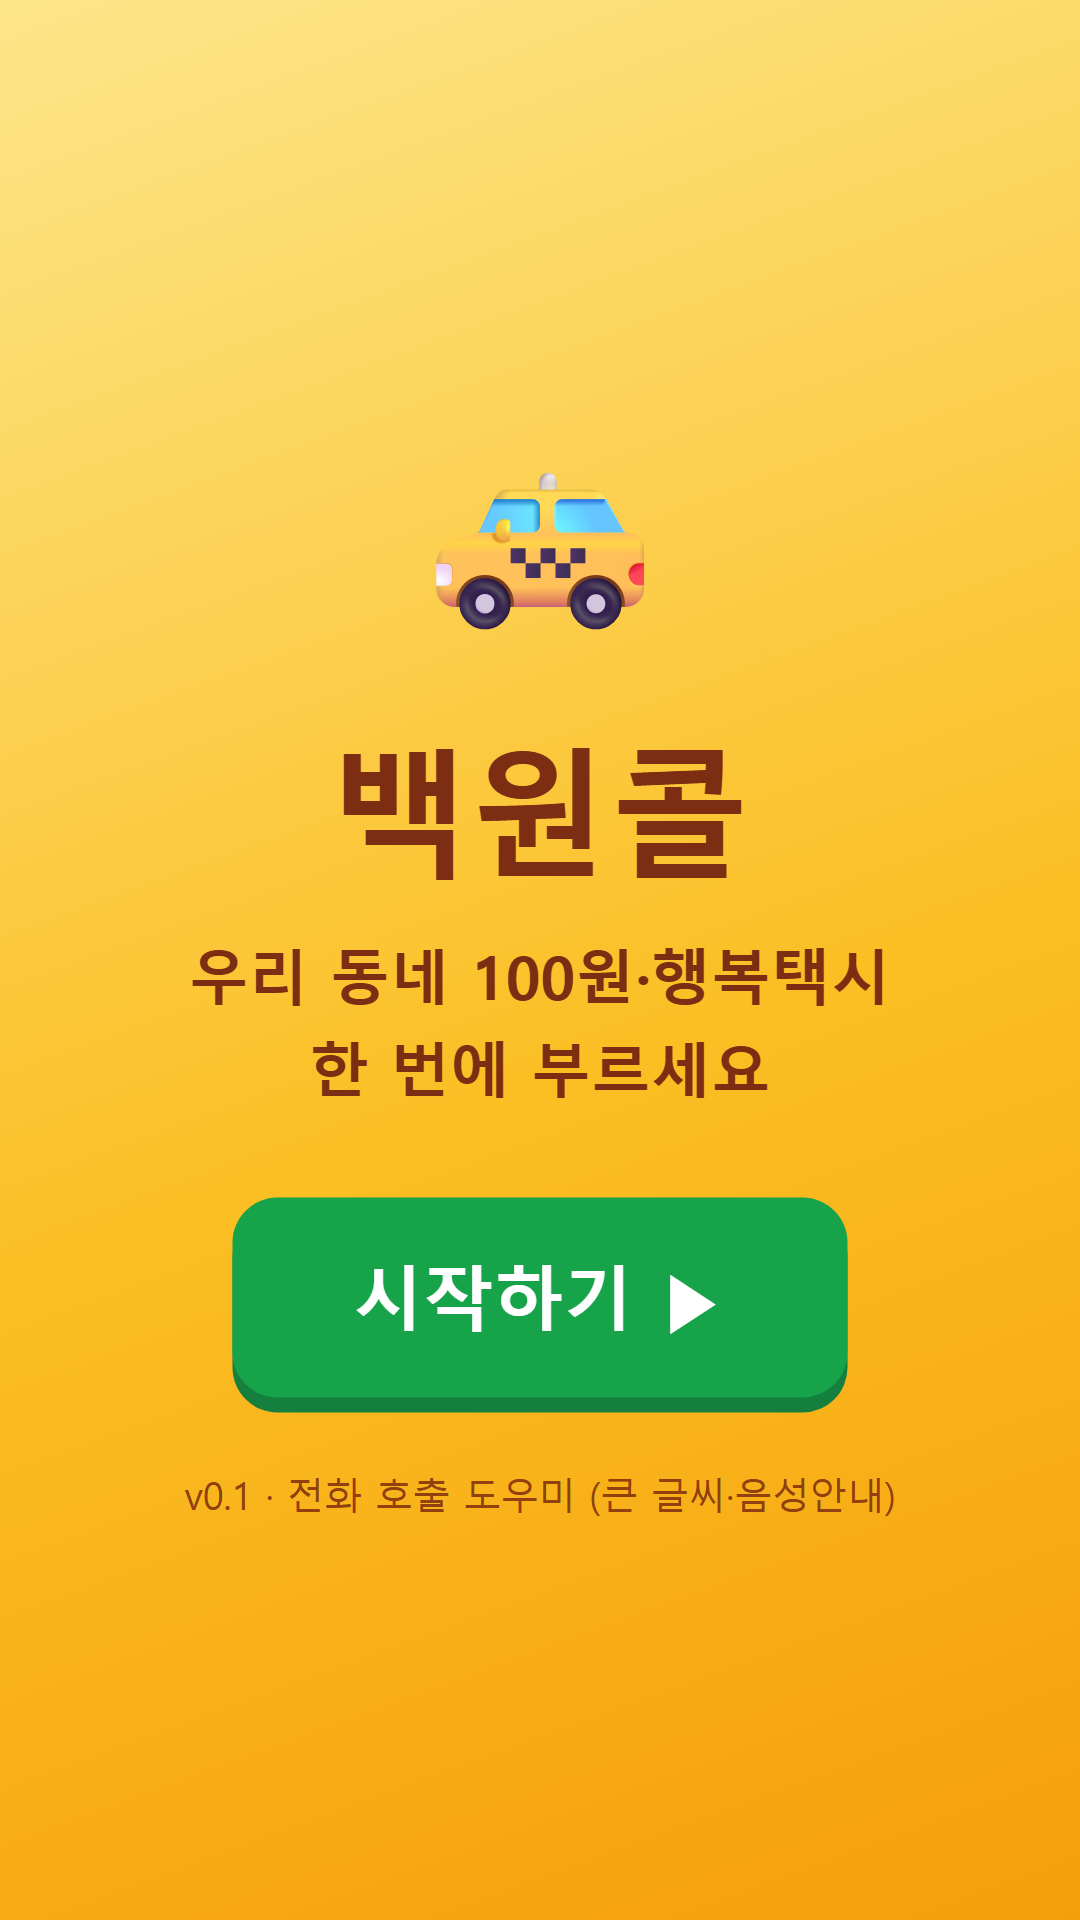
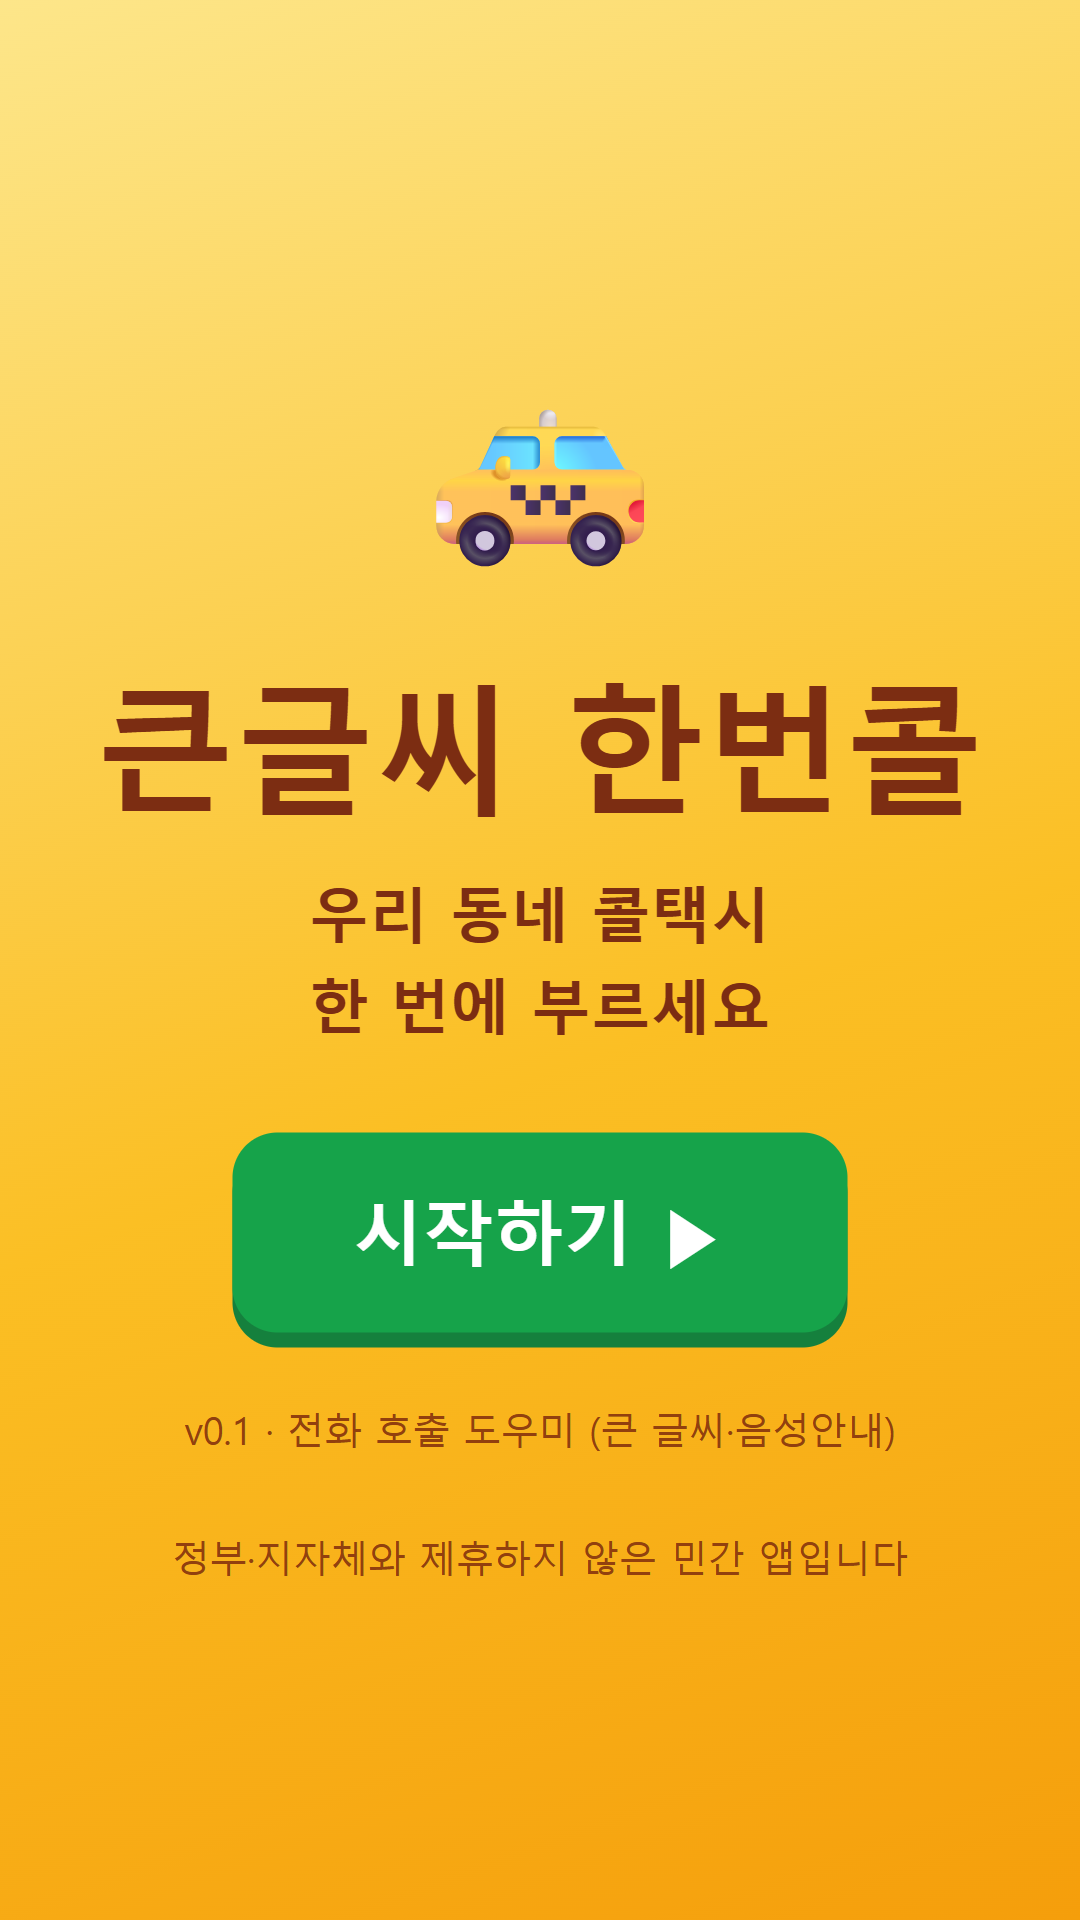
앱 이름 변경: 어르신 택시콜 → 큰글씨 한번콜 (Play 명의도용 3차 거부 대응)
- 아이콘·피처그래픽에서 '100' 동전(100원택시 연상) 제거, 개인 제작 표기
- '정부 안내전화' 카드명을 '번호 문의처'로, 예시 문구의 행복택시 제거
- 스토어 스크린샷 재촬영(옛 '백원콜·100원·행복택시' 문구 제거)
- sw v2.7

Changed region(s): [[0.0917, 0.2188, 0.825, 0.8125], [0.7944, 0.3438, 0.9167, 0.4375]]

diff --git a/www/index.html b/www/index.html
@@ -8,11 +8,11 @@
   <meta name="apple-mobile-web-app-capable" content="yes" />
   <meta name="mobile-web-app-capable" content="yes" />
   <meta name="apple-mobile-web-app-status-bar-style" content="black-translucent" />
-  <meta name="apple-mobile-web-app-title" content="어르신 택시콜" />
+  <meta name="apple-mobile-web-app-title" content="큰글씨 한번콜" />
   <meta name="referrer" content="no-referrer" />
   <!-- CSP: 동일 출처만 허용. 외부 fetch·script·iframe 차단. tel:/sms: 전화·문자 호출은 허용. -->
   <meta http-equiv="Content-Security-Policy" content="default-src 'self'; script-src 'self'; style-src 'self' 'unsafe-inline'; img-src 'self' data:; font-src 'self' data:; connect-src 'self' https://siqlhoimzvklzzhrqayq.supabase.co wss://siqlhoimzvklzzhrqayq.supabase.co; frame-ancestors 'none'; base-uri 'self'; form-action 'none';" />
-  <title>어르신 택시콜 — 큰 글씨 호출 도우미</title>
+  <title>큰글씨 한번콜 — 개인 제작 호출 도우미</title>
   <link rel="manifest" href="manifest.webmanifest" />
   <link rel="icon" type="image/png" sizes="192x192" href="icon_192.png?v=1" />
   <link rel="icon" type="image/png" sizes="512x512" href="icon_512.png?v=1" />
@@ -24,7 +24,7 @@
   <div id="intro" class="intro">
     <div class="intro-content">
       <div class="intro-emoji">🚕</div>
-      <h1 class="intro-title">어르신 택시콜</h1>
+      <h1 class="intro-title">큰글씨 한번콜</h1>
       <p class="intro-slogan">우리 동네 콜택시<br>한 번에 부르세요</p>
       <button id="btn_start" class="btn-start">시작하기 ▶</button>
       <p class="intro-foot">v0.1 · 전화 호출 도우미 (큰 글씨·음성안내)</p>
@@ -34,7 +34,7 @@
 
   <header class="app-header">
     <div class="app-header-text">
-      <h1>🚕 어르신 택시콜</h1>
+      <h1>🚕 큰글씨 한번콜</h1>
       <div class="sub">큰 글씨·음성안내 택시 호출 도우미</div>
     </div>
     <button id="btn_voice" class="header-voice" type="button" aria-pressed="true" aria-label="음성 안내 켜기 끄기">🔊 음성</button>
@@ -94,7 +94,7 @@
           <button id="btn_ride_share" class="btn-ride-share" type="button">📨 보호자에게 보기 링크 보내기</button>
           <button id="btn_ride_stop" class="btn-ride-stop" type="button">■ 공유 끄기 (내렸어요)</button>
         </div>
-        <p class="ride-note">문자를 보낸 뒤 이 화면(어르신 택시콜)으로 돌아와 켜 두세요. 다른 앱으로 가거나 화면이 꺼지면 위치 전송이 잠시 멈출 수 있어요.</p>
+        <p class="ride-note">문자를 보낸 뒤 이 화면(큰글씨 한번콜)으로 돌아와 켜 두세요. 다른 앱으로 가거나 화면이 꺼지면 위치 전송이 잠시 멈출 수 있어요.</p>
       </div>
     </section>
 
@@ -113,7 +113,7 @@
       <label class="field"><span>③ 택시 콜센터 전화번호</span>
         <input type="tel" id="taxi_number" inputmode="tel" placeholder="예) 0312345678 (- 없이)" maxlength="20" /></label>
       <label class="field"><span>택시 이름 (선택)</span>
-        <input type="text" id="taxi_label" maxlength="20" placeholder="예) 우리면 행복택시" /></label>
+        <input type="text" id="taxi_label" maxlength="20" placeholder="예) 우리 동네 콜택시" /></label>
       <button id="btn_save_taxi" class="btn-save" type="button">💾 택시 번호 저장</button>
       <div class="saved-line" id="saved_taxi" hidden></div>
     </section>
@@ -143,8 +143,8 @@
 
     <!-- ⑥ 정부 안내번호 -->
     <section class="card">
-      <h2 class="card-title">☎ 정부 안내전화</h2>
-      <p class="card-help">택시 번호를 모를 때, 아래로 전화해 우리 지역 행복택시 안내를 받으세요.</p>
+      <h2 class="card-title">☎ 번호 문의처</h2>
+      <p class="card-help">택시 번호를 모를 때 아래 공공 민원전화로 우리 지역 콜택시 번호를 문의하세요. (본 앱과 관련 없는 일반 민원 번호입니다)</p>
       <a class="infoline" href="tel:120"><b>120</b> 우리 시·군청 민원 안내 <span>(지역번호+120)</span></a>
       <a class="infoline" href="tel:110"><b>110</b> 정부민원 통합 안내</a>
     </section>

diff --git a/www/app.js b/www/app.js
@@ -1,4 +1,4 @@
-/* 어르신 택시콜 — 큰 글씨 호출 도우미
+/* 큰글씨 한번콜 — 개인 제작 호출 도우미
    - 100% 기기 내부 동작. 외부 서버 전송 없음. 저장은 localStorage.
    - 전화: tel: / 문자: sms: / 위치: navigator.geolocation
    - 음성 안내: Web Speech API (speechSynthesis, ko-KR)
@@ -113,7 +113,7 @@
   $("btn_start").addEventListener("click", function () {
     $("intro").classList.add("hide");
     setTimeout(function () { $("intro").style.display = "none"; }, 400);
-    speak("어르신 택시콜입니다. 택시 부르기 버튼을 누르세요.");
+    speak("큰글씨 한번콜입니다. 택시 부르기 버튼을 누르세요.");
   });
 
   /* ── 음성 토글 ── */
@@ -536,7 +536,7 @@
     if (!GEO.last) { toast("위치를 아직 못 찾았어요. 잠시만요."); return; }
     var tnum = get(LS.taxiNum);
     if (!tnum) { toast("먼저 택시 번호를 저장하세요."); closeLocOverlay(); scrollToSave("setup", "taxi_number"); return; }
-    var body = "[어르신 택시콜] 손님 현재 위치입니다.\n지도: " + geoMapLink();
+    var body = "[큰글씨 한번콜] 손님 현재 위치입니다.\n지도: " + geoMapLink();
     toast("택시에 보낼 문자가 열렸어요. ‘보내기’만 누르세요.");
     sendSms(tnum, body);
   });
@@ -680,7 +680,7 @@
   function rideShareLink() {
     if (!RIDE.token) return;
     var url = BWRT.trackUrl(RIDE.token);
-    var msg = "[어르신 택시콜] 지금 택시로 이동 중입니다.\n아래 링크에서 제 위치를 실시간으로 보실 수 있어요.\n" + url;
+    var msg = "[큰글씨 한번콜] 지금 택시로 이동 중입니다.\n아래 링크에서 제 위치를 실시간으로 보실 수 있어요.\n" + url;
     // 보호자 번호가 저장돼 있으면 곧바로 문자앱을 열어 한 번에 보냅니다(공유 시트 생략).
     var gnum = get(LS.gNum);
     if (gnum) {
@@ -689,7 +689,7 @@
       return;
     }
     if (navigator.share) {
-      navigator.share({ title: "어르신 택시콜 실시간 위치", text: msg, url: url }).catch(function () {});
+      navigator.share({ title: "큰글씨 한번콜 실시간 위치", text: msg, url: url }).catch(function () {});
       return;
     }
     try {

diff --git a/www/privacy_policy.html b/www/privacy_policy.html
@@ -3,7 +3,7 @@
 <head>
   <meta charset="UTF-8" />
   <meta name="viewport" content="width=device-width, initial-scale=1" />
-  <title>어르신 택시콜 — 개인정보처리방침</title>
+  <title>큰글씨 한번콜 — 개인정보처리방침</title>
   <style>
     body { font-family: -apple-system, "Malgun Gothic", "맑은 고딕", sans-serif;
            max-width: 760px; margin: 0 auto; padding: 24px; line-height: 1.7;
@@ -20,11 +20,11 @@
   </style>
 </head>
 <body>
-  <h1>🚕 어르신 택시콜 — 개인정보처리방침</h1>
+  <h1>🚕 큰글씨 한번콜 — 개인정보처리방침</h1>
   <p class="meta"><b>시행일자</b>: 2026년 6월 1일 &nbsp;·&nbsp; <b>최종 개정</b>: 2026년 6월 4일</p>
 
   <h2>1. 개인정보의 수집 및 이용</h2>
-  <p>어르신 택시콜(이하 "본 앱")은 <b>사용자의 개인정보를 외부 서버로 수집·전송·저장하지 않습니다.</b></p>
+  <p>큰글씨 한번콜(이하 "본 앱")은 <b>사용자의 개인정보를 외부 서버로 수집·전송·저장하지 않습니다.</b></p>
   <p>본 앱에서 사용자가 입력·저장하는 모든 정보(택시 콜센터 번호, 보호자 이름·전화번호, 자주 가는 곳, 지역 선택)는:</p>
   <ul>
     <li>사용자 본인의 기기 내부 저장소(localStorage)에만 저장됩니다.</li>

diff --git a/www/track.js b/www/track.js
@@ -1,4 +1,4 @@
-/* 어르신 택시콜 — 보호자 실시간 추적 페이지 로직
+/* 큰글씨 한번콜 — 보호자 실시간 추적 페이지 로직
    ─────────────────────────────────────────────
    · URL의 ?t=토큰 으로 한 번의 운행 채널(bw-trip-<토큰>)에 접속합니다.
    · 어르신 휴대폰이 약 4초마다 보내는 위치를 받아 지도에 표시하고,
@@ -140,7 +140,7 @@
   function showWaitingHelp() {
     if (gotState) return;
     showOverlay("📍", "어르신 위치를 기다리고 있어요",
-      "연결은 되었어요. 위치가 보이려면 어르신 휴대폰에서 어르신 택시콜 앱이 화면에 떠 있어야 해요. 어르신께 어르신 택시콜 앱을 다시 열고 ‘위치 공유’가 켜져 있는지 봐 달라고 부탁해 주세요.");
+      "연결은 되었어요. 위치가 보이려면 어르신 휴대폰에서 큰글씨 한번콜 앱이 화면에 떠 있어야 해요. 어르신께 큰글씨 한번콜 앱을 다시 열고 ‘위치 공유’가 켜져 있는지 봐 달라고 부탁해 주세요.");
   }
 
   // ── 수신 처리 ─────────────────────────────────

diff --git a/www/track.html b/www/track.html
@@ -4,7 +4,7 @@
   <meta charset="UTF-8" />
   <meta name="viewport" content="width=device-width, initial-scale=1, maximum-scale=1, user-scalable=no, viewport-fit=cover" />
   <meta name="theme-color" content="#b45309" />
-  <title>어르신 택시콜 — 실시간 위치 보기</title>
+  <title>큰글씨 한번콜 — 실시간 위치 보기</title>
   <meta http-equiv="Content-Security-Policy"
     content="default-src 'self'; script-src 'self'; style-src 'self' 'unsafe-inline'; img-src 'self' data: blob: https://*.tile.openstreetmap.org; font-src 'self' data:; connect-src 'self' https://siqlhoimzvklzzhrqayq.supabase.co wss://siqlhoimzvklzzhrqayq.supabase.co; frame-ancestors 'none'; base-uri 'self'; form-action 'none';" />
   <link rel="stylesheet" href="vendor/leaflet/leaflet.css" />
@@ -15,7 +15,7 @@
 
   <!-- 상단 상태바 -->
   <div class="topbar">
-    <div class="title">🚕 어르신 택시콜 실시간 위치</div>
+    <div class="title">🚕 큰글씨 한번콜 실시간 위치</div>
     <div class="conn"><span class="dot" id="conn_dot"></span> <span id="conn_text">연결 중…</span></div>
   </div>
 

diff --git a/www/rt-config.js b/www/rt-config.js
@@ -1,4 +1,4 @@
-/* 어르신 택시콜 — 실시간 위치공유 공통 설정/도우미
+/* 큰글씨 한번콜 — 실시간 위치공유 공통 설정/도우미
    ─────────────────────────────────────────────
    · 아래 ANON 키는 "공개되어도 되는" 공개 키입니다(브라우저 노출 전제).
      이 프로젝트에는 테이블이 없고, 실시간 브로드캐스트(메모리 중계)만 사용합니다.

diff --git a/www/sw.js b/www/sw.js
@@ -1,7 +1,7 @@
-/* 어르신 택시콜 Service Worker — 오프라인 캐싱
+/* 큰글씨 한번콜 Service Worker — 오프라인 캐싱
    전략: 네트워크 우선 → 실패 시 캐시 폴백. same-origin GET만 처리. */
 
-const VERSION = "v2.6";
+const VERSION = "v2.7";
 const CACHE = `baekwon-call-${VERSION}`;
 const ASSETS = [
   "./",

diff --git a/www/style.css b/www/style.css
@@ -1,4 +1,4 @@
-/* 어르신 택시콜 — 고령자 친화 스타일 (큰 글씨·고대비·큰 터치영역) */
+/* 큰글씨 한번콜 — 고령자 친화 스타일 (큰 글씨·고대비·큰 터치영역) */
 :root {
   --orange: #f59e0b;
   --orange-d: #d97706;

diff --git a/www/track.css b/www/track.css
@@ -1,4 +1,4 @@
-/* 어르신 택시콜 — 보호자 실시간 추적 페이지 */
+/* 큰글씨 한번콜 — 보호자 실시간 추적 페이지 */
 * { box-sizing: border-box; }
 html, body { height: 100%; margin: 0; }
 body {

diff --git a/play_store_kit/generate_pngs.py b/play_store_kit/generate_pngs.py
@@ -74,11 +74,11 @@ def make_icon(size, path):
         d.line([(0, y), (size, y)], fill=(r, g, b))
     cx, cy = size * 0.5, size * 0.56
     draw_taxi(d, cx, cy, size * 0.30)
-    # 100원 동전
+    # 전화 말풍선 (정부 제도 연상 '100' 동전 대신)
     r = size * 0.13
-    coin_cx, coin_cy = size * 0.74, size * 0.27
-    d.ellipse([coin_cx - r, coin_cy - r, coin_cx + r, coin_cy + r], fill=COIN, outline=BROWN, width=max(3, int(size * 0.012)))
-    d.text((coin_cx, coin_cy), "100", font=font(int(size * 0.09)), fill=BROWN, anchor="mm")
+    bx, by = size * 0.74, size * 0.27
+    d.ellipse([bx - r, by - r, bx + r, by + r], fill=WHITE, outline=BROWN, width=max(3, int(size * 0.012)))
+    d.text((bx, by), "콜", font=font(int(size * 0.12)), fill=BROWN, anchor="mm")
     img.save(path)
     print("saved", path)
 
@@ -94,13 +94,14 @@ def make_feature(path):
         d.line([(0, y), (W, y)], fill=(r, g, b))
     # 택시 (오른쪽)
     draw_taxi(d, 800, 270, 150)
-    # 100원 동전
-    d.ellipse([905, 60, 1005, 160], fill=COIN, outline=BROWN, width=6)
-    d.text((955, 110), "100", font=font(44), fill=BROWN, anchor="mm")
+    # 전화 말풍선
+    d.ellipse([905, 60, 1005, 160], fill=WHITE, outline=BROWN, width=6)
+    d.text((955, 110), "콜", font=font(52), fill=BROWN, anchor="mm")
     # 텍스트 (왼쪽)
-    d.text((70, 150), "백원콜", font=font(110), fill=WHITE, anchor="lm")
-    d.text((74, 250), "100원·행복택시 한 번에 부르기", font=font(40), fill=CREAM, anchor="lm")
+    d.text((70, 150), "큰글씨 한번콜", font=font(84), fill=WHITE, anchor="lm")
+    d.text((74, 250), "큰 버튼 한 번으로 전화", font=font(36), fill=CREAM, anchor="lm")
     d.text((74, 320), "큰 글씨 · 음성안내 · 보호자 위치문자", font=font(30), fill=CREAM, anchor="lm")
+    d.text((74, 440), "개인 제작 앱 · 정부·지자체와 무관", font=font(22, bold=False), fill=CREAM, anchor="lm")
     img.save(path)
     print("saved", path)
 

diff --git a/play_store_kit/make_screenshots.py b/play_store_kit/make_screenshots.py
@@ -11,7 +11,7 @@ URL = "http://localhost:8533/index.html"
 
 DEMO = {
     "bw_taxi_num": "0312345678",
-    "bw_taxi_label": "우리면 행복택시",
+    "bw_taxi_label": "우리 동네 콜택시",
     "bw_guardian_name": "큰딸",
     "bw_guardian_num": "01012345678",
     "bw_places": '["군청 앞 ○○내과","면사무소","장날 ○○장터"]',
@@ -36,7 +36,7 @@ def shot(page, name, scroll_to_selector=None, scroll_y=0):
 
 
 with sync_playwright() as p:
-    b = p.chromium.launch()
+    b = p.chromium.launch(channel="chrome")
     ctx = b.new_context(viewport={"width": VW, "height": VH},
                         device_scale_factor=SCALE, locale="ko-KR")
     page = ctx.new_page()
@@ -64,7 +64,7 @@ with sync_playwright() as p:
     shot(page, "03_taxi.png", "#setup")
 
     # 04 내가 탈 위치 (기사님께 음성으로 읽어줄 주소)
-    shot(page, "04_pickup.png", "#pickup_card")
+    # 04 내가 탈 위치 카드는 앱에서 제거됨 (건너뜀)
 
     # 05 보호자
     shot(page, "05_guardian.png", "#guardian")
@@ -72,7 +72,7 @@ with sync_playwright() as p:
     # 06 자주 가는 곳
     shot(page, "06_places.png", "#places")
 
-    # 07 정부 안내전화 (맨 아래)
+    # 07 번호 문의처 (맨 아래)
     page.evaluate("window.scrollTo(0,document.body.scrollHeight)")
     page.wait_for_timeout(400)
     shot(page, "07_info.png")
